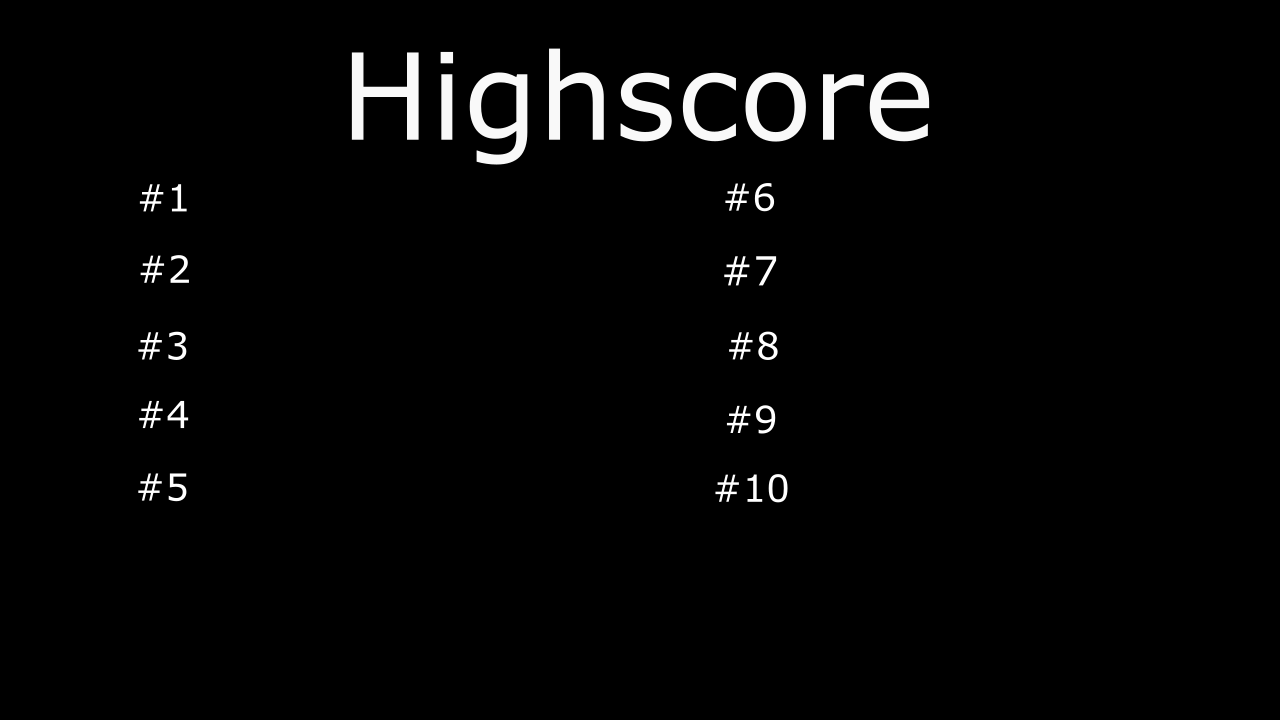
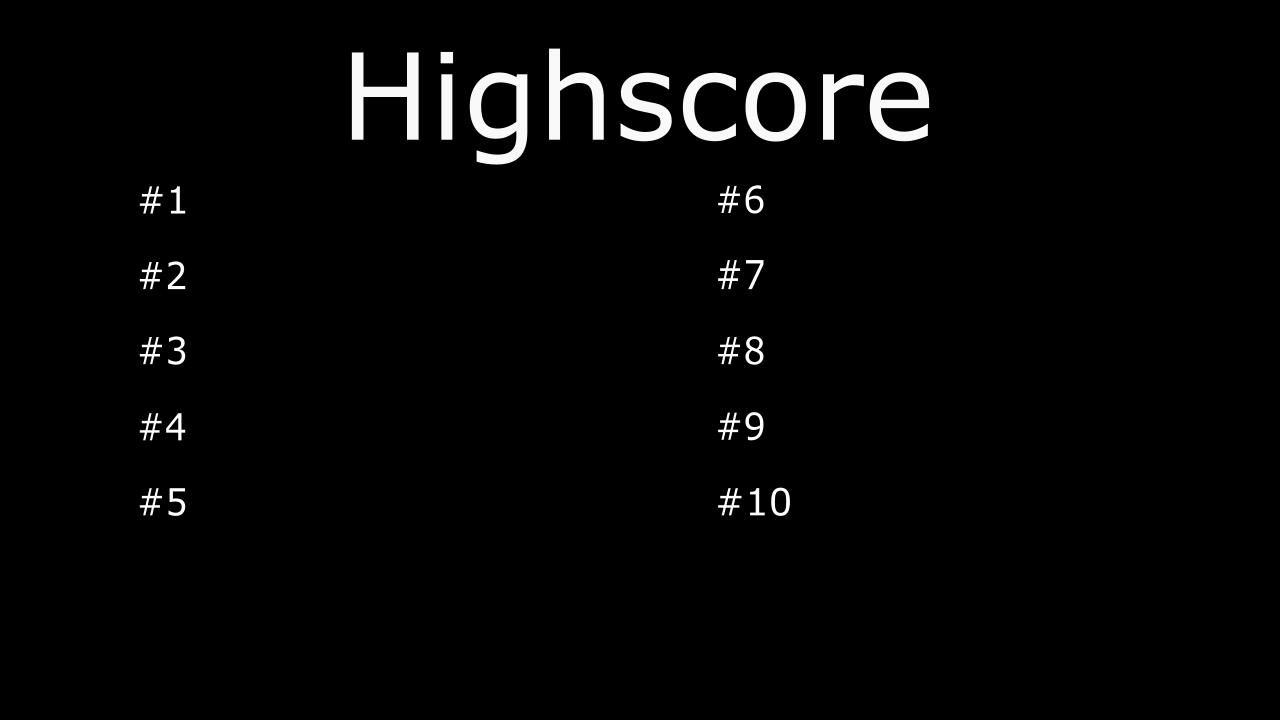
Add - MenuHighscore - ajout du fond du menu highscore (Meilleur version)

diff --git a/source/Highscore.h b/source/Highscore.h
@@ -22,7 +22,7 @@ private:
     Button* backButtonHighscore;
     Scores* scores[12];
     Label*  indicationsScores[11];
-    Font* font = ResourceManager::getInstance()->getResource<Font*>("font - arial12");
+    Font* font = ResourceManager::getInstance()->getResource<Font*>("font - arial28");
     Image* fond;
 
     std::string fichierSauvegardeScores;
@@ -76,6 +76,8 @@ public:
         ResourceManager::getInstance()->addResource("FondHighscore", fond);
 
 
+
+
         for (int i = 0; i < 10 ; ++i) {
             scores[i] = new Scores();
            /* std::string buffer;
@@ -84,6 +86,12 @@ public:
             buffer = scores[i]->getName() + "          " + intBuffer;
             indicationsScores[i] = new Label(font->getFont(), {128,128,128,0},buffer, 71, 300, 0.1, 466, 113);*/
         }
+        // Les lignes qui suivent servent à tester les labels de highscore.
+        std::string buffer;
+        char intBuffer[10];
+        itoa(scores[1]->getScore(),intBuffer,10);
+        buffer = scores[1]->getName() + "          " + intBuffer;
+        indicationsScores[1] = new Label(font->getFont(), {128,128,128,0},buffer, 71, 300, 0.1, 466, 113);
 
     }
 
@@ -144,6 +152,7 @@ public:
 
     void draw(){
         backButtonHighscore->draw();
+        indicationsScores[1]->draw();
         fond->draw();
     }
 };

diff --git a/source/main.cpp b/source/main.cpp
@@ -16,6 +16,7 @@ int main(int argc, char* argv[]) {
     TTF_Init();
 
     ResourceManager::getInstance()->addResource("font - arial12",new Font("../Fonts/arial.ttf", 72));
+   // ResourceManager::getInstance()->addResource("font - arial28",new Font("../Fonts/arial.ttf", 28));
     ProjetFinal::getInstance()->run(filePath.c_str());
     ProjetFinal::deleteInstance();
     ResourceManager::deleteInstance();
